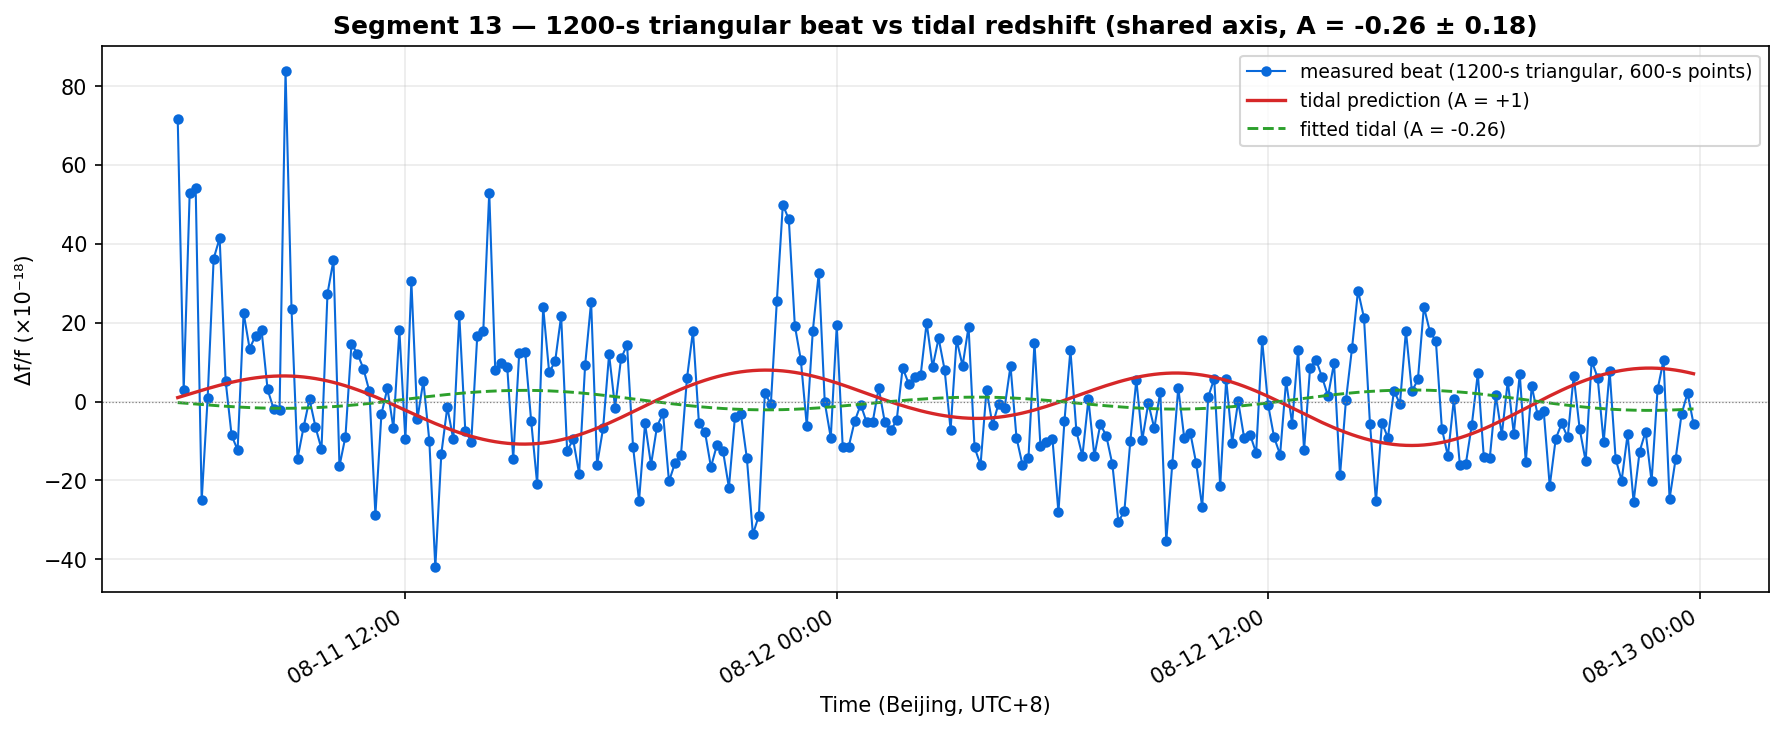
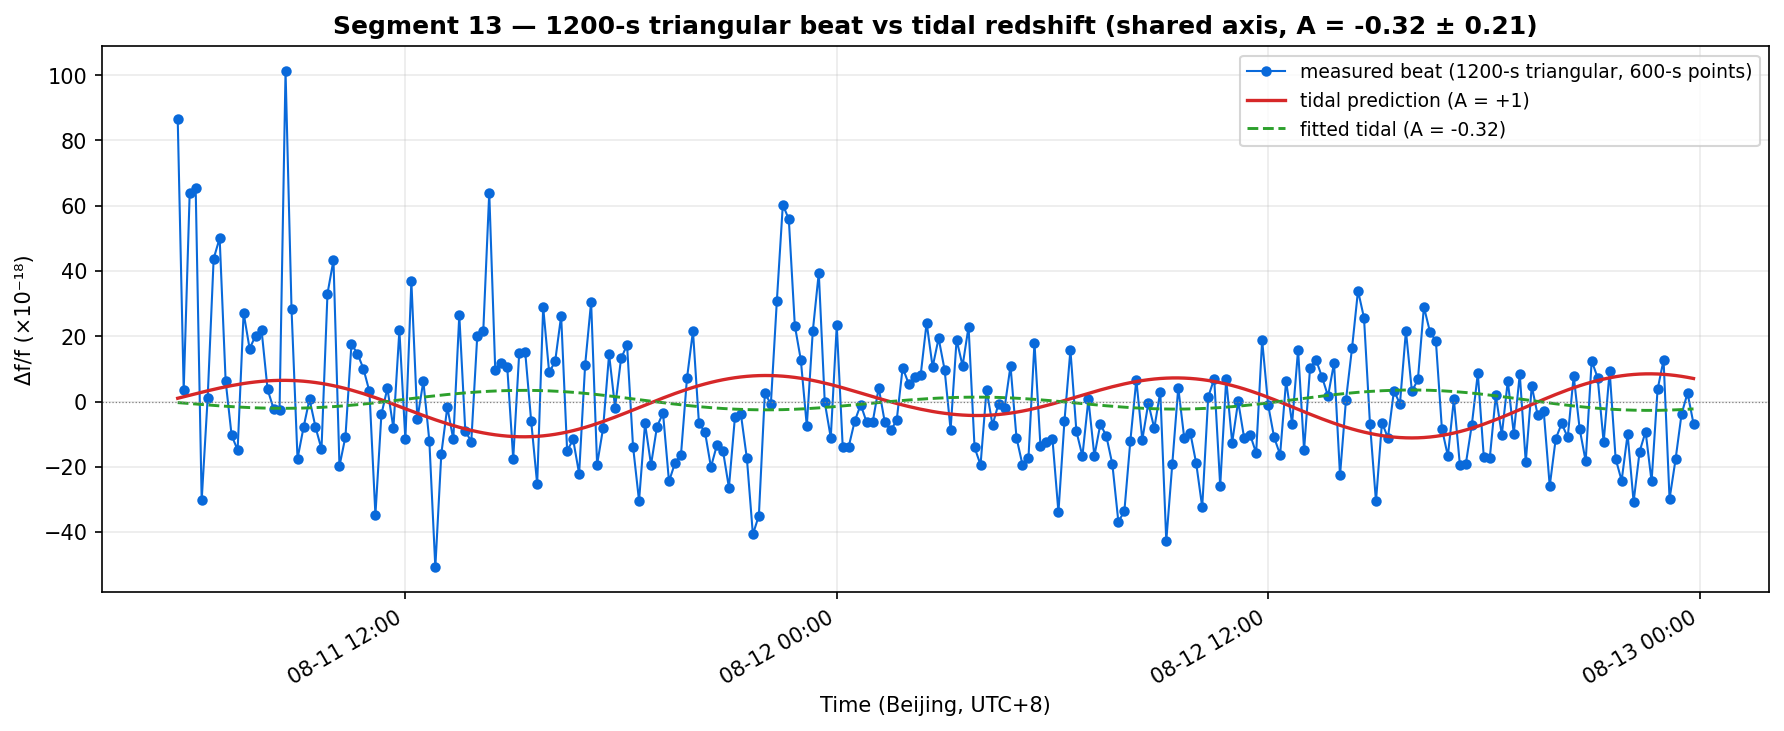
Fix 1.2x tidal-normalization concept error: COEF→F_1550 in SIG/SIGN/segment scripts and docs

diff --git a/clock/segment13_correlation.py b/clock/segment13_correlation.py
@@ -22,10 +22,12 @@ Key corrections over earlier scripts:
        den = coef1397/N1397 * (N1550 + 7/25 + 1/25),
        coef1397 = (1 + shift_a)/2,  N1397 = 858456,  N1550 = 773598,
 
-   giving  Δf/f = COEF * beat[Hz]  with  COEF = 4.282082163269648e-15.
-   Hence the tidal fractional frequency Δf/f = ΔW/c² maps to a beat deviation
+    giving  Δ(Sr/Yb ratio) = COEF * beat[Hz]  with  COEF = 4.282082163269648e-15.
+    However the beat itself is normalized to the 1550 nm transfer light
+    F_1550 = N1550_WH * f_rep ≈ 193.40 THz (NOT 1/COEF ≈ 233.53 THz). Hence the
+    tidal fractional frequency Δf/f = ΔW/c² maps to a beat deviation
 
-       beat[Hz] = (ΔW/c²) / COEF.
+        beat[Hz] = (ΔW/c²) * F_1550.
 
 3. Amplitude fit. Besides Pearson/Spearman correlation, we fit the model
 
@@ -60,7 +62,8 @@ RESULTS_CSV = (
 OUT_DIR = CLOCK_DIR
 
 C = 299792458.0  # m/s
-COEF = 4.282082163269648e-15  # beat[Hz] -> Δf/f  (from the MATLAB processing)
+COEF = 4.282082163269648e-15  # beat[Hz] -> Sr/Yb RATIO offset (Dr formula)
+F_1550 = 193399200000000.0     # 1550 nm transfer light (Hz), the beat normalization
 UTC_OFFSET_H = 8  # data PC local time = UTC+8 (China Standard Time)
 
 SEG_START = np.datetime64("2026-08-11 05:30:00")  # printed (Beijing) time
@@ -114,7 +117,7 @@ def tidal_beat(t_stamps_utc: np.ndarray, t_tide: np.ndarray, tot: np.ndarray) ->
     t_sec = (t_tide - np.datetime64("1970-01-01")).astype(int)
     s_sec = (t_stamps_utc - np.datetime64("1970-01-01")).astype(int)
     dw = np.interp(s_sec, t_sec, tot)
-    return dw / C**2 / COEF
+    return dw / C**2 * F_1550
 
 
 def triangular_segment(x: np.ndarray, tau: int) -> np.ndarray:
@@ -158,7 +161,7 @@ def lag_sweep(beat_utc: np.ndarray, dm: np.ndarray, t_tide: np.ndarray, tot: np.
     print("\nLag sweep (tau=600 s) — A ≈ +1 at the correct time base:")
     print(f"{'lag_h':>6} {'A':>9} {'u_A':>8} {'r':>8} {'rho':>8}")
     for lag in range(-12, 1):
-        tide_1s = np.interp(t_utc_sec + lag * 3600, t_sec, tot) / C**2 / COEF
+        tide_1s = np.interp(t_utc_sec + lag * 3600, t_sec, tot) / C**2 * F_1550
         tide = triangular_segment(tide_1s, tau)
         tide = tide[: len(d_sm)]
         r = float(np.corrcoef(d_sm, tide)[0, 1])

diff --git a/clock/segment_analysis/segment13_triangular.py b/clock/segment_analysis/segment13_triangular.py
@@ -32,9 +32,11 @@ RESULTS_CSV = (
 OUT_DIR = Path(__file__).resolve().parent
 
 C = 299792458.0  # m/s
-# Dr = coef * beat[Hz], the beat->clock-fractional-frequency coefficient from the
-# processing program (Dr = coef1156/N1156 * mean_dm / fref / div20 / den).
+# Dr = coef * beat[Hz], the beat->Sr/Yb RATIO coefficient from the processing
+# program (Dr = coef1156/N1156 * mean_dm / fref / div20 / den).
 COEF = 4.282082163269648e-15
+# The beat itself normalizes to the 1550 nm transfer light (NOT 1/COEF):
+F_1550 = 193399200000000.0
 
 # Beat timestamps are Beijing time (UTC+8, "PC time, time zone local"); the
 # tidal CSV is UTC, so the 8 h offset is removed before interpolation.
@@ -84,7 +86,7 @@ def tidal_prediction(t_stamps: np.ndarray) -> np.ndarray:
     s_sec = (s_utc - np.datetime64("1970-01-01")).astype(int)
     interp = np.interp(s_sec, t_sec, tot)
     dff = interp / C**2  # fractional frequency
-    return dff / COEF  # beat Hz (same units as the measured beat)
+    return dff * F_1550  # beat Hz (same units as the measured beat)
 
 
 def main() -> int:
@@ -129,9 +131,9 @@ def main() -> int:
     resid = beat_tri - A * tide
     u_A = float(np.sqrt(np.dot(resid, resid) / (len(beat_tri) - 1) / np.dot(tide, tide)))
 
-    # Convert both to Δf/f (×1e-18): Δf/f = COEF * beat[Hz].
-    beat_ff = beat_tri * COEF * 1e18
-    tide_ff = tide * COEF * 1e18
+    # Convert both to Δf/f (×1e-18): Δf/f = beat[Hz] / F_1550.
+    beat_ff = beat_tri / F_1550 * 1e18
+    tide_ff = tide / F_1550 * 1e18
 
     fig, ax = plt.subplots(figsize=(12, 5))
     ax.plot(t_tri, beat_ff, "o-", ms=4, lw=1.0, color="#0969da",

diff --git a/clock/segment_analysis/segment6_triangular.py b/clock/segment_analysis/segment6_triangular.py
@@ -35,7 +35,8 @@ RESULTS_CSV = (
 OUT_DIR = Path(__file__).resolve().parent
 
 C = 299792458.0  # m/s
-COEF = 4.282082163269648e-15  # beat[Hz] -> Δf/f (from the MATLAB Dr formula)
+COEF = 4.282082163269648e-15  # beat[Hz] -> Sr/Yb RATIO offset (Dr formula)
+F_1550 = 193399200000000.0     # 1550 nm transfer light (Hz), the beat normalization
 
 UTC_OFFSET = np.timedelta64(8, "h")
 
@@ -80,7 +81,7 @@ def tidal_prediction(t_stamps: np.ndarray) -> np.ndarray:
     s_utc = t_stamps - UTC_OFFSET  # Beijing -> UTC
     s_sec = (s_utc - np.datetime64("1970-01-01")).astype(int)
     interp = np.interp(s_sec, t_sec, tot)
-    return interp / C**2 / COEF  # beat Hz
+    return interp / C**2 * F_1550  # beat Hz
 
 
 def main() -> int:
@@ -117,8 +118,8 @@ def main() -> int:
     resid = beat_tri - A * tide
     u_A = float(np.sqrt(np.dot(resid, resid) / (len(beat_tri) - 1) / np.dot(tide, tide)))
 
-    beat_ff = beat_tri * COEF * 1e18
-    tide_ff = tide * COEF * 1e18
+    beat_ff = beat_tri / F_1550 * 1e18
+    tide_ff = tide / F_1550 * 1e18
 
     fig, ax = plt.subplots(figsize=(12, 5))
     ax.plot(t_tri, beat_ff, "o-", ms=4, lw=1.0, color="#0969da",

diff --git a/clock/PROFESSIONAL_TIDAL_DATA.md b/clock/PROFESSIONAL_TIDAL_DATA.md
@@ -24,8 +24,8 @@
   `= CAS − SHA` 的字面含义；上海沿海海潮负荷位移 std ≈ 26.6 mm 大于武汉内陆的
   ≈ 6.7 mm，故差值为负）。因此 ΔW = W(WUHN) − W(SHAO)。
 - **引力势差换算**：`ΔW = g·(mm)/1000`，g ≈ 9.794 m/s²。
-- **潮汐引力红移**：`Δf/f = ΔW/c²`；拍频模板：`beat = Δf/f / COEF`
-  （COEF = 4.282082163269648e-15）。
+- **潮汐引力红移**：`Δf/f = ΔW/c²`；拍频模板：`beat = Δf/f × F_1550`
+  （F_1550 = N1550_WH × f_rep ≈ 193.40 THz，1550 nm 传递光）。
 
 换算序列固化为 `results/professional_tidal_delta_30s.csv`（列名
 `total_tidal_delta_m2_s2_surface`，单位 m²/s²），供下游钟比对分析直接读取。
